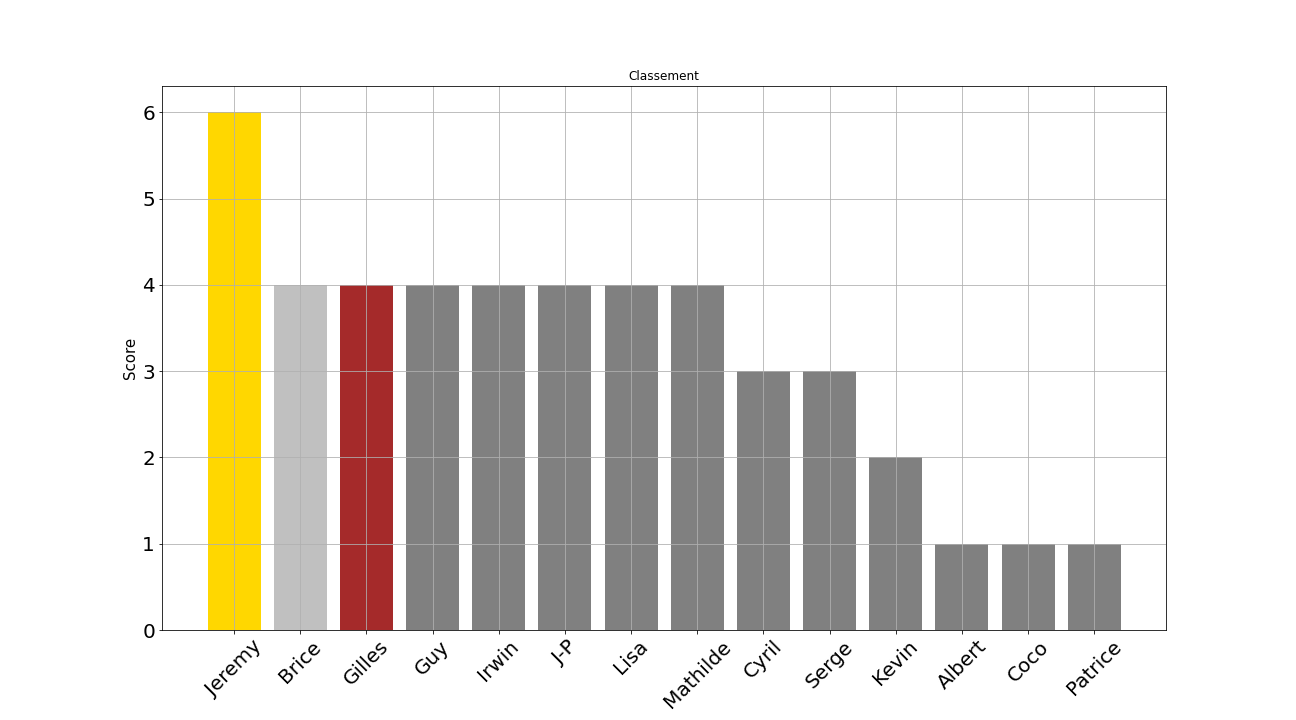
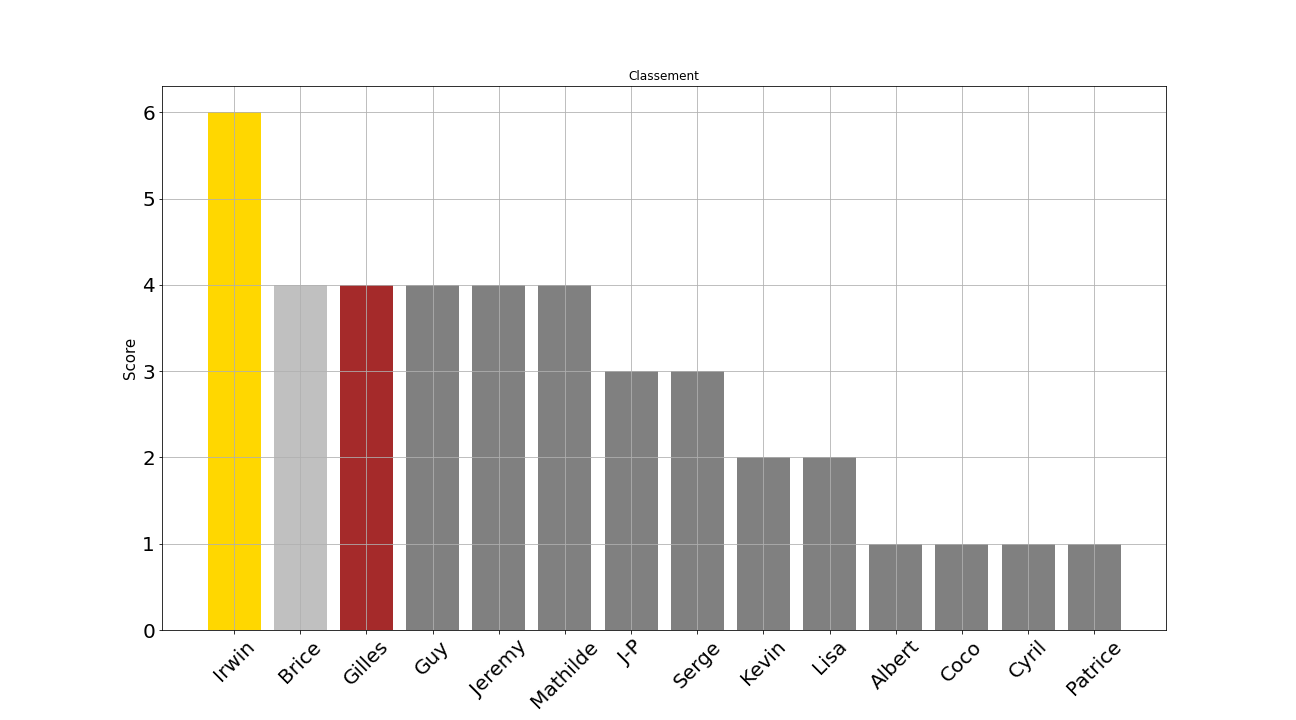
Update classement plot

diff --git a/classement_table.html b/classement_table.html
@@ -18,49 +18,19 @@
   </thead>
   <tbody>
     <tr>
-      <td>Jeremy</td>
-      <td>3-1</td>
+      <td>Irwin</td>
+      <td>3-0</td>
       <td>1-1</td>
+      <td>0-3</td>
       <td>0-2</td>
       <td>1-2</td>
-      <td>0-2</td>
-      <td>1-2</td>
+      <td>1-0</td>
       <td>0-1</td>
-      <td>1-1</td>
-      <td>2-0</td>
+      <td>2-1</td>
+      <td>1-0</td>
       <td>2-0</td>
       <td>2-0</td>
       <td>6</td>
-    </tr>
-    <tr>
-      <td>J-P</td>
-      <td>2-1</td>
-      <td>0-0</td>
-      <td>0-2</td>
-      <td>2-1</td>
-      <td>1-0</td>
-      <td>1-0</td>
-      <td>0-1</td>
-      <td>2-1</td>
-      <td>1-0</td>
-      <td>0-0</td>
-      <td>3-0</td>
-      <td>4</td>
-    </tr>
-    <tr>
-      <td>Lisa</td>
-      <td>2-1</td>
-      <td>2-2</td>
-      <td>0-2</td>
-      <td>2-1</td>
-      <td>1-2</td>
-      <td>1-3</td>
-      <td>0-2</td>
-      <td>2-2</td>
-      <td>3-1</td>
-      <td>1-1</td>
-      <td>0-0</td>
-      <td>4</td>
     </tr>
     <tr>
       <td>Gilles</td>
@@ -93,6 +63,21 @@
       <td>4</td>
     </tr>
     <tr>
+      <td>Jeremy</td>
+      <td>3-1</td>
+      <td>1-1</td>
+      <td>0-2</td>
+      <td>1-2</td>
+      <td>0-2</td>
+      <td>1-2</td>
+      <td>0-1</td>
+      <td>1-1</td>
+      <td>2-0</td>
+      <td>2-0</td>
+      <td>2-0</td>
+      <td>4</td>
+    </tr>
+    <tr>
       <td>Guy</td>
       <td>2-1</td>
       <td>1-1</td>
@@ -104,21 +89,6 @@
       <td>2-1</td>
       <td>3-2</td>
       <td>1-0</td>
-      <td>2-0</td>
-      <td>4</td>
-    </tr>
-    <tr>
-      <td>Irwin</td>
-      <td>3-0</td>
-      <td>1-1</td>
-      <td>0-3</td>
-      <td>0-2</td>
-      <td>1-2</td>
-      <td>1-0</td>
-      <td>0-1</td>
-      <td>2-1</td>
-      <td>1-0</td>
-      <td>2-0</td>
       <td>2-0</td>
       <td>4</td>
     </tr>
@@ -138,33 +108,18 @@
       <td>4</td>
     </tr>
     <tr>
-      <td>Irwin</td>
-      <td>2-0</td>
-      <td>0-1</td>
-      <td>0-2</td>
-      <td>0-1</td>
-      <td>0-2</td>
-      <td>1-1</td>
-      <td>0-2</td>
-      <td>2-0</td>
-      <td>2-0</td>
-      <td>1-0</td>
-      <td>1-0</td>
-      <td>3</td>
-    </tr>
-    <tr>
-      <td>Cyril</td>
-      <td>1-1</td>
-      <td>1-2</td>
-      <td>0-2</td>
-      <td>0-1</td>
-      <td>1-2</td>
-      <td>1-1</td>
-      <td>0-2</td>
-      <td>1-1</td>
-      <td>1-1</td>
+      <td>J-P</td>
+      <td>0-0</td>
       <td>3-0</td>
-      <td>1-0</td>
+      <td>0-3</td>
+      <td>0-0</td>
+      <td>2-1</td>
+      <td>1-3</td>
+      <td>2-2</td>
+      <td>1-1</td>
+      <td>3-1</td>
+      <td>3-0</td>
+      <td>3-0</td>
       <td>3</td>
     </tr>
     <tr>
@@ -183,6 +138,21 @@
       <td>3</td>
     </tr>
     <tr>
+      <td>J-P</td>
+      <td>2-1</td>
+      <td>0-0</td>
+      <td>0-2</td>
+      <td>2-1</td>
+      <td>1-0</td>
+      <td>1-0</td>
+      <td>0-1</td>
+      <td>2-1</td>
+      <td>1-0</td>
+      <td>0-0</td>
+      <td>3-0</td>
+      <td>2</td>
+    </tr>
+    <tr>
       <td>Kevin</td>
       <td>1-0</td>
       <td>0-0</td>
@@ -195,6 +165,21 @@
       <td>1-0</td>
       <td>1-0</td>
       <td>1-0</td>
+      <td>2</td>
+    </tr>
+    <tr>
+      <td>Lisa</td>
+      <td>2-1</td>
+      <td>2-2</td>
+      <td>0-2</td>
+      <td>2-1</td>
+      <td>1-2</td>
+      <td>1-3</td>
+      <td>0-2</td>
+      <td>2-2</td>
+      <td>3-1</td>
+      <td>1-1</td>
+      <td>0-0</td>
       <td>2</td>
     </tr>
     <tr>
@@ -213,36 +198,6 @@
       <td>2</td>
     </tr>
     <tr>
-      <td>Irwin</td>
-      <td>1-0</td>
-      <td>1-0</td>
-      <td>0-4</td>
-      <td>1-1</td>
-      <td>0-1</td>
-      <td>0-1</td>
-      <td>1-2</td>
-      <td>1-0</td>
-      <td>3-1</td>
-      <td>3-0</td>
-      <td>2-1</td>
-      <td>1</td>
-    </tr>
-    <tr>
-      <td>Brice</td>
-      <td>2-1</td>
-      <td>0-1</td>
-      <td>1-3</td>
-      <td>0-3</td>
-      <td>1-2</td>
-      <td>1-1</td>
-      <td>0-2</td>
-      <td>1-0</td>
-      <td>1-1</td>
-      <td>0-2</td>
-      <td>3-2</td>
-      <td>1</td>
-    </tr>
-    <tr>
       <td>Albert</td>
       <td>1-0</td>
       <td>2-1</td>
@@ -255,6 +210,36 @@
       <td>2-1</td>
       <td>2-0</td>
       <td>0-1</td>
+      <td>1</td>
+    </tr>
+    <tr>
+      <td>Brice</td>
+      <td>2-0</td>
+      <td>0-2</td>
+      <td>1-2</td>
+      <td>1-1</td>
+      <td>0-3</td>
+      <td>0-1</td>
+      <td>1-3</td>
+      <td>1-1</td>
+      <td>1-0</td>
+      <td>1-3</td>
+      <td>2-0</td>
+      <td>1</td>
+    </tr>
+    <tr>
+      <td>Irwin</td>
+      <td>1-0</td>
+      <td>1-0</td>
+      <td>0-4</td>
+      <td>1-1</td>
+      <td>0-1</td>
+      <td>0-1</td>
+      <td>1-2</td>
+      <td>1-0</td>
+      <td>3-1</td>
+      <td>3-0</td>
+      <td>2-1</td>
       <td>1</td>
     </tr>
     <tr>
@@ -303,6 +288,21 @@
       <td>1</td>
     </tr>
     <tr>
+      <td>Cyril</td>
+      <td>1-1</td>
+      <td>1-2</td>
+      <td>0-2</td>
+      <td>0-1</td>
+      <td>1-2</td>
+      <td>1-1</td>
+      <td>0-2</td>
+      <td>1-1</td>
+      <td>1-1</td>
+      <td>3-0</td>
+      <td>1-0</td>
+      <td>1</td>
+    </tr>
+    <tr>
       <td>Kevin</td>
       <td>2-1</td>
       <td>0-2</td>
@@ -319,17 +319,17 @@
     </tr>
     <tr>
       <td>Brice</td>
-      <td>2-0</td>
-      <td>0-2</td>
-      <td>1-2</td>
-      <td>1-1</td>
-      <td>0-3</td>
+      <td>2-1</td>
       <td>0-1</td>
       <td>1-3</td>
+      <td>0-3</td>
+      <td>1-2</td>
       <td>1-1</td>
+      <td>0-2</td>
       <td>1-0</td>
-      <td>1-3</td>
-      <td>2-0</td>
+      <td>1-1</td>
+      <td>0-2</td>
+      <td>3-2</td>
       <td>1</td>
     </tr>
     <tr>
@@ -349,21 +349,6 @@
     </tr>
     <tr>
       <td>J-P</td>
-      <td>0-0</td>
-      <td>3-0</td>
-      <td>0-3</td>
-      <td>0-0</td>
-      <td>2-1</td>
-      <td>1-3</td>
-      <td>2-2</td>
-      <td>1-1</td>
-      <td>3-1</td>
-      <td>3-0</td>
-      <td>3-0</td>
-      <td>1</td>
-    </tr>
-    <tr>
-      <td>J-P</td>
       <td>1-0</td>
       <td>2-1</td>
       <td>0-1</td>
@@ -375,6 +360,21 @@
       <td>0-1</td>
       <td>1-0</td>
       <td>3-0</td>
+      <td>1</td>
+    </tr>
+    <tr>
+      <td>Irwin</td>
+      <td>2-0</td>
+      <td>0-1</td>
+      <td>0-2</td>
+      <td>0-1</td>
+      <td>0-2</td>
+      <td>1-1</td>
+      <td>0-2</td>
+      <td>2-0</td>
+      <td>2-0</td>
+      <td>1-0</td>
+      <td>1-0</td>
       <td>1</td>
     </tr>
     <tr>

diff --git a/live_score.html b/live_score.html
@@ -1,1 +1,1 @@
-<p>Live score: Turquie 0 - 2 Portugal</p>
+<p>Live score: Turquie 0 - 3 Portugal</p>
